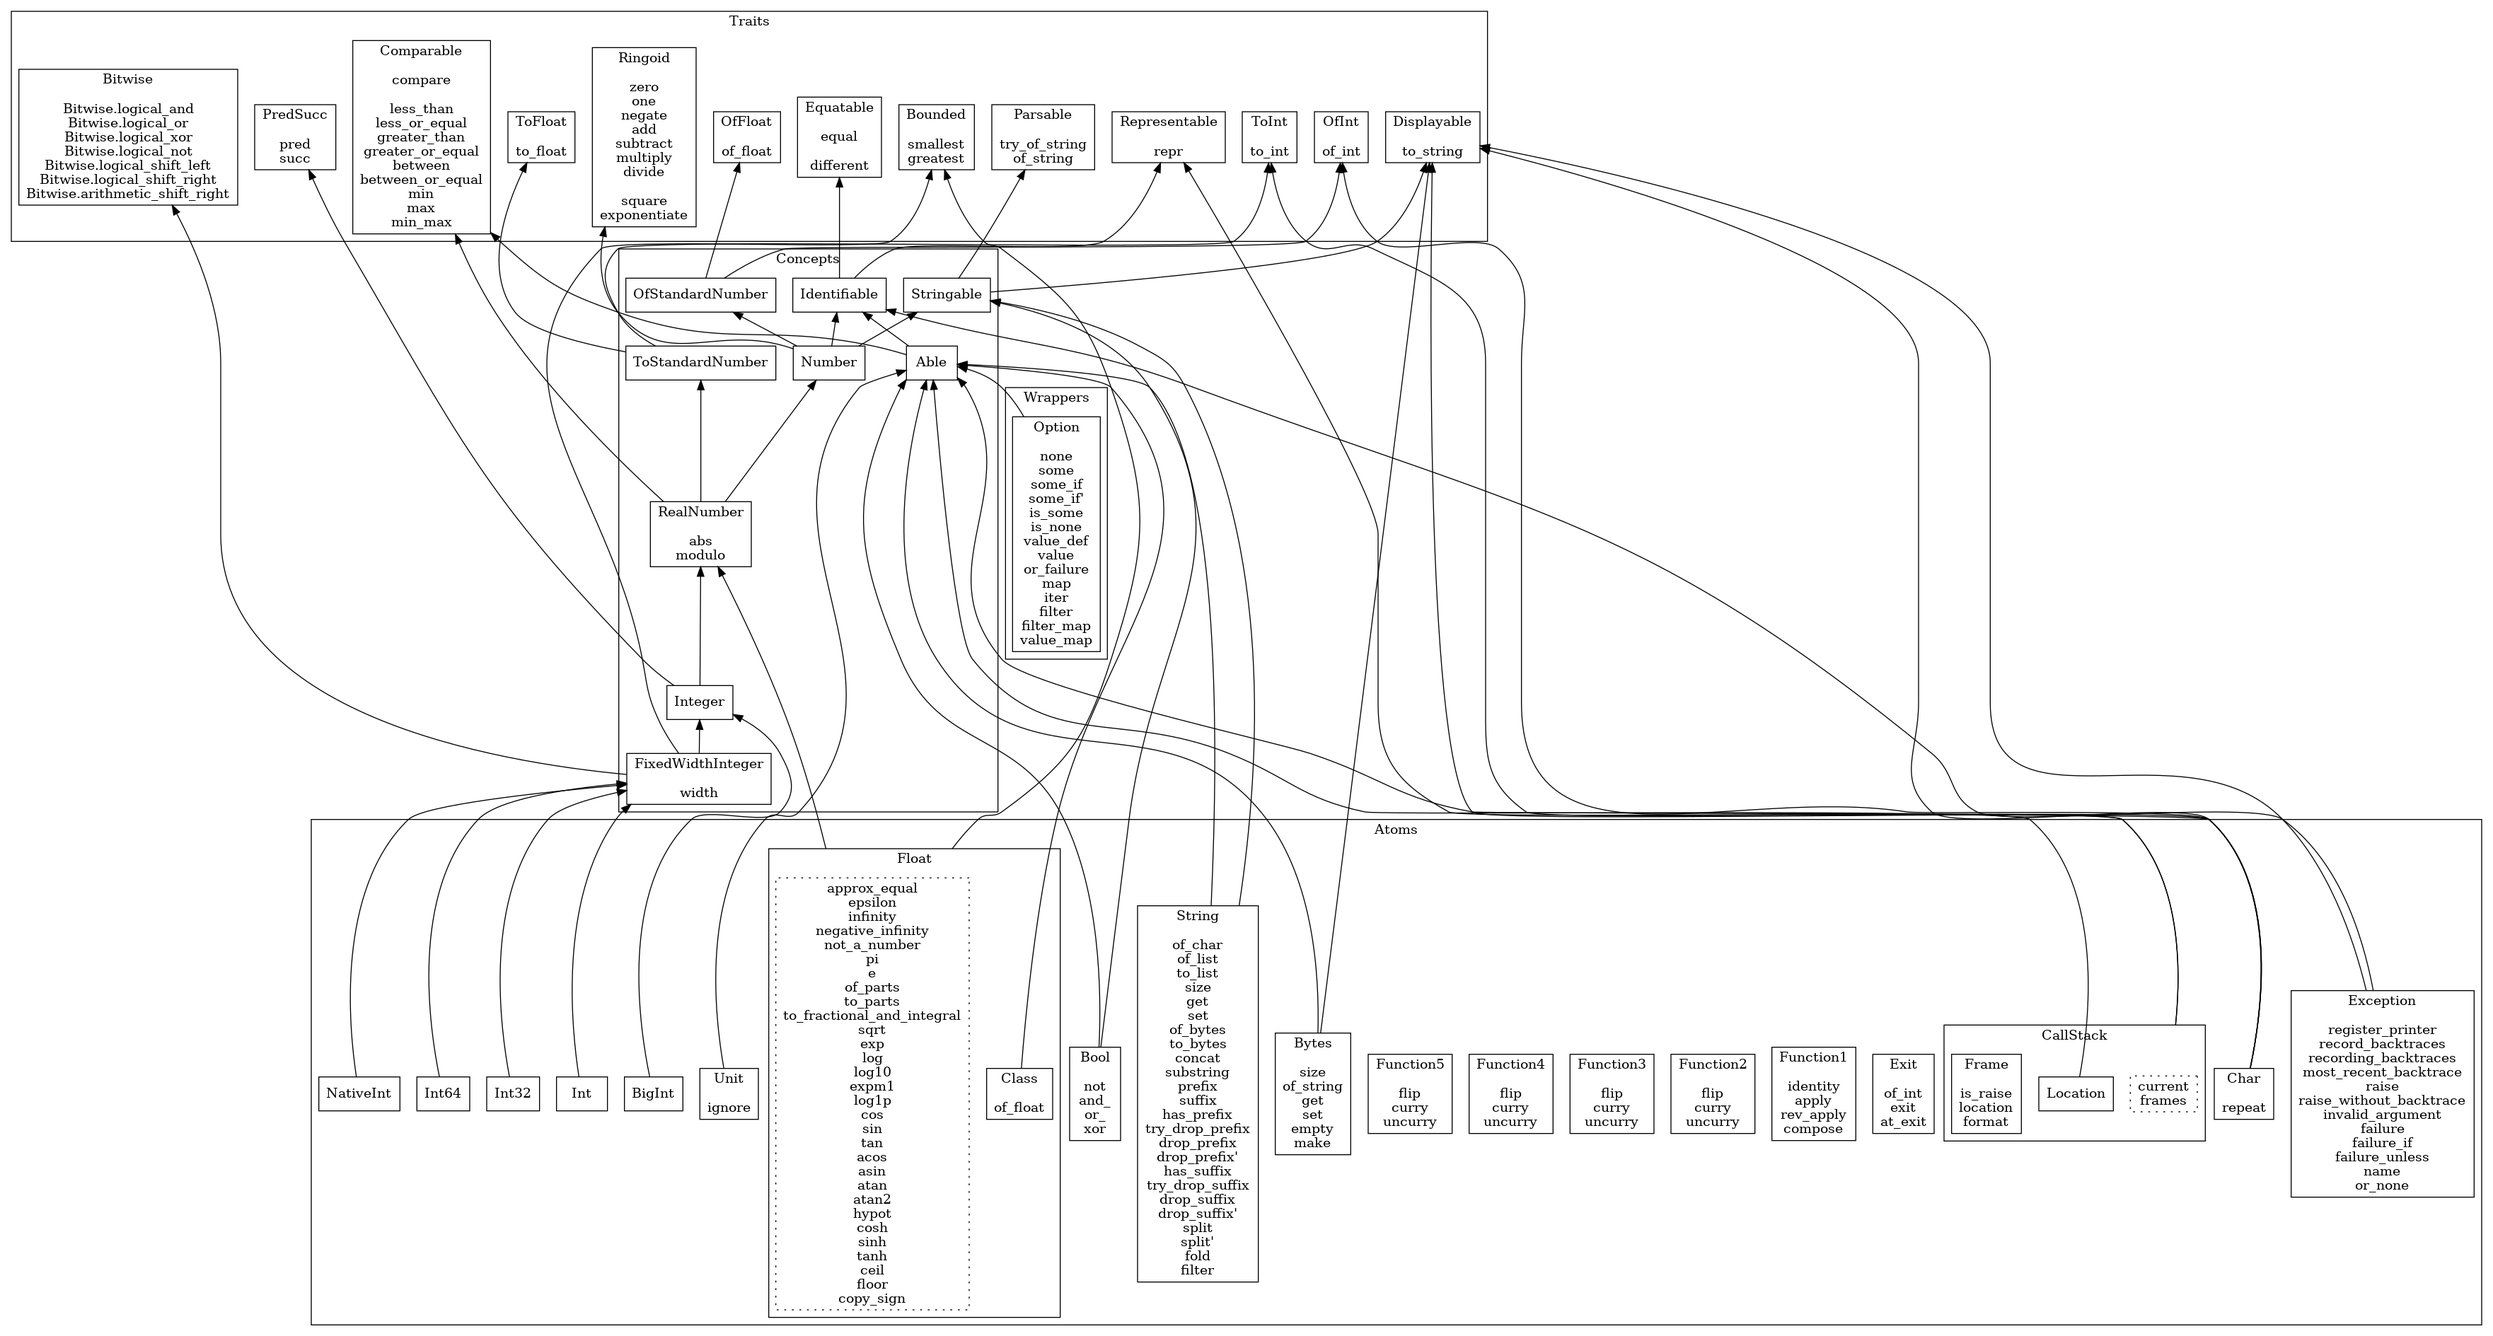
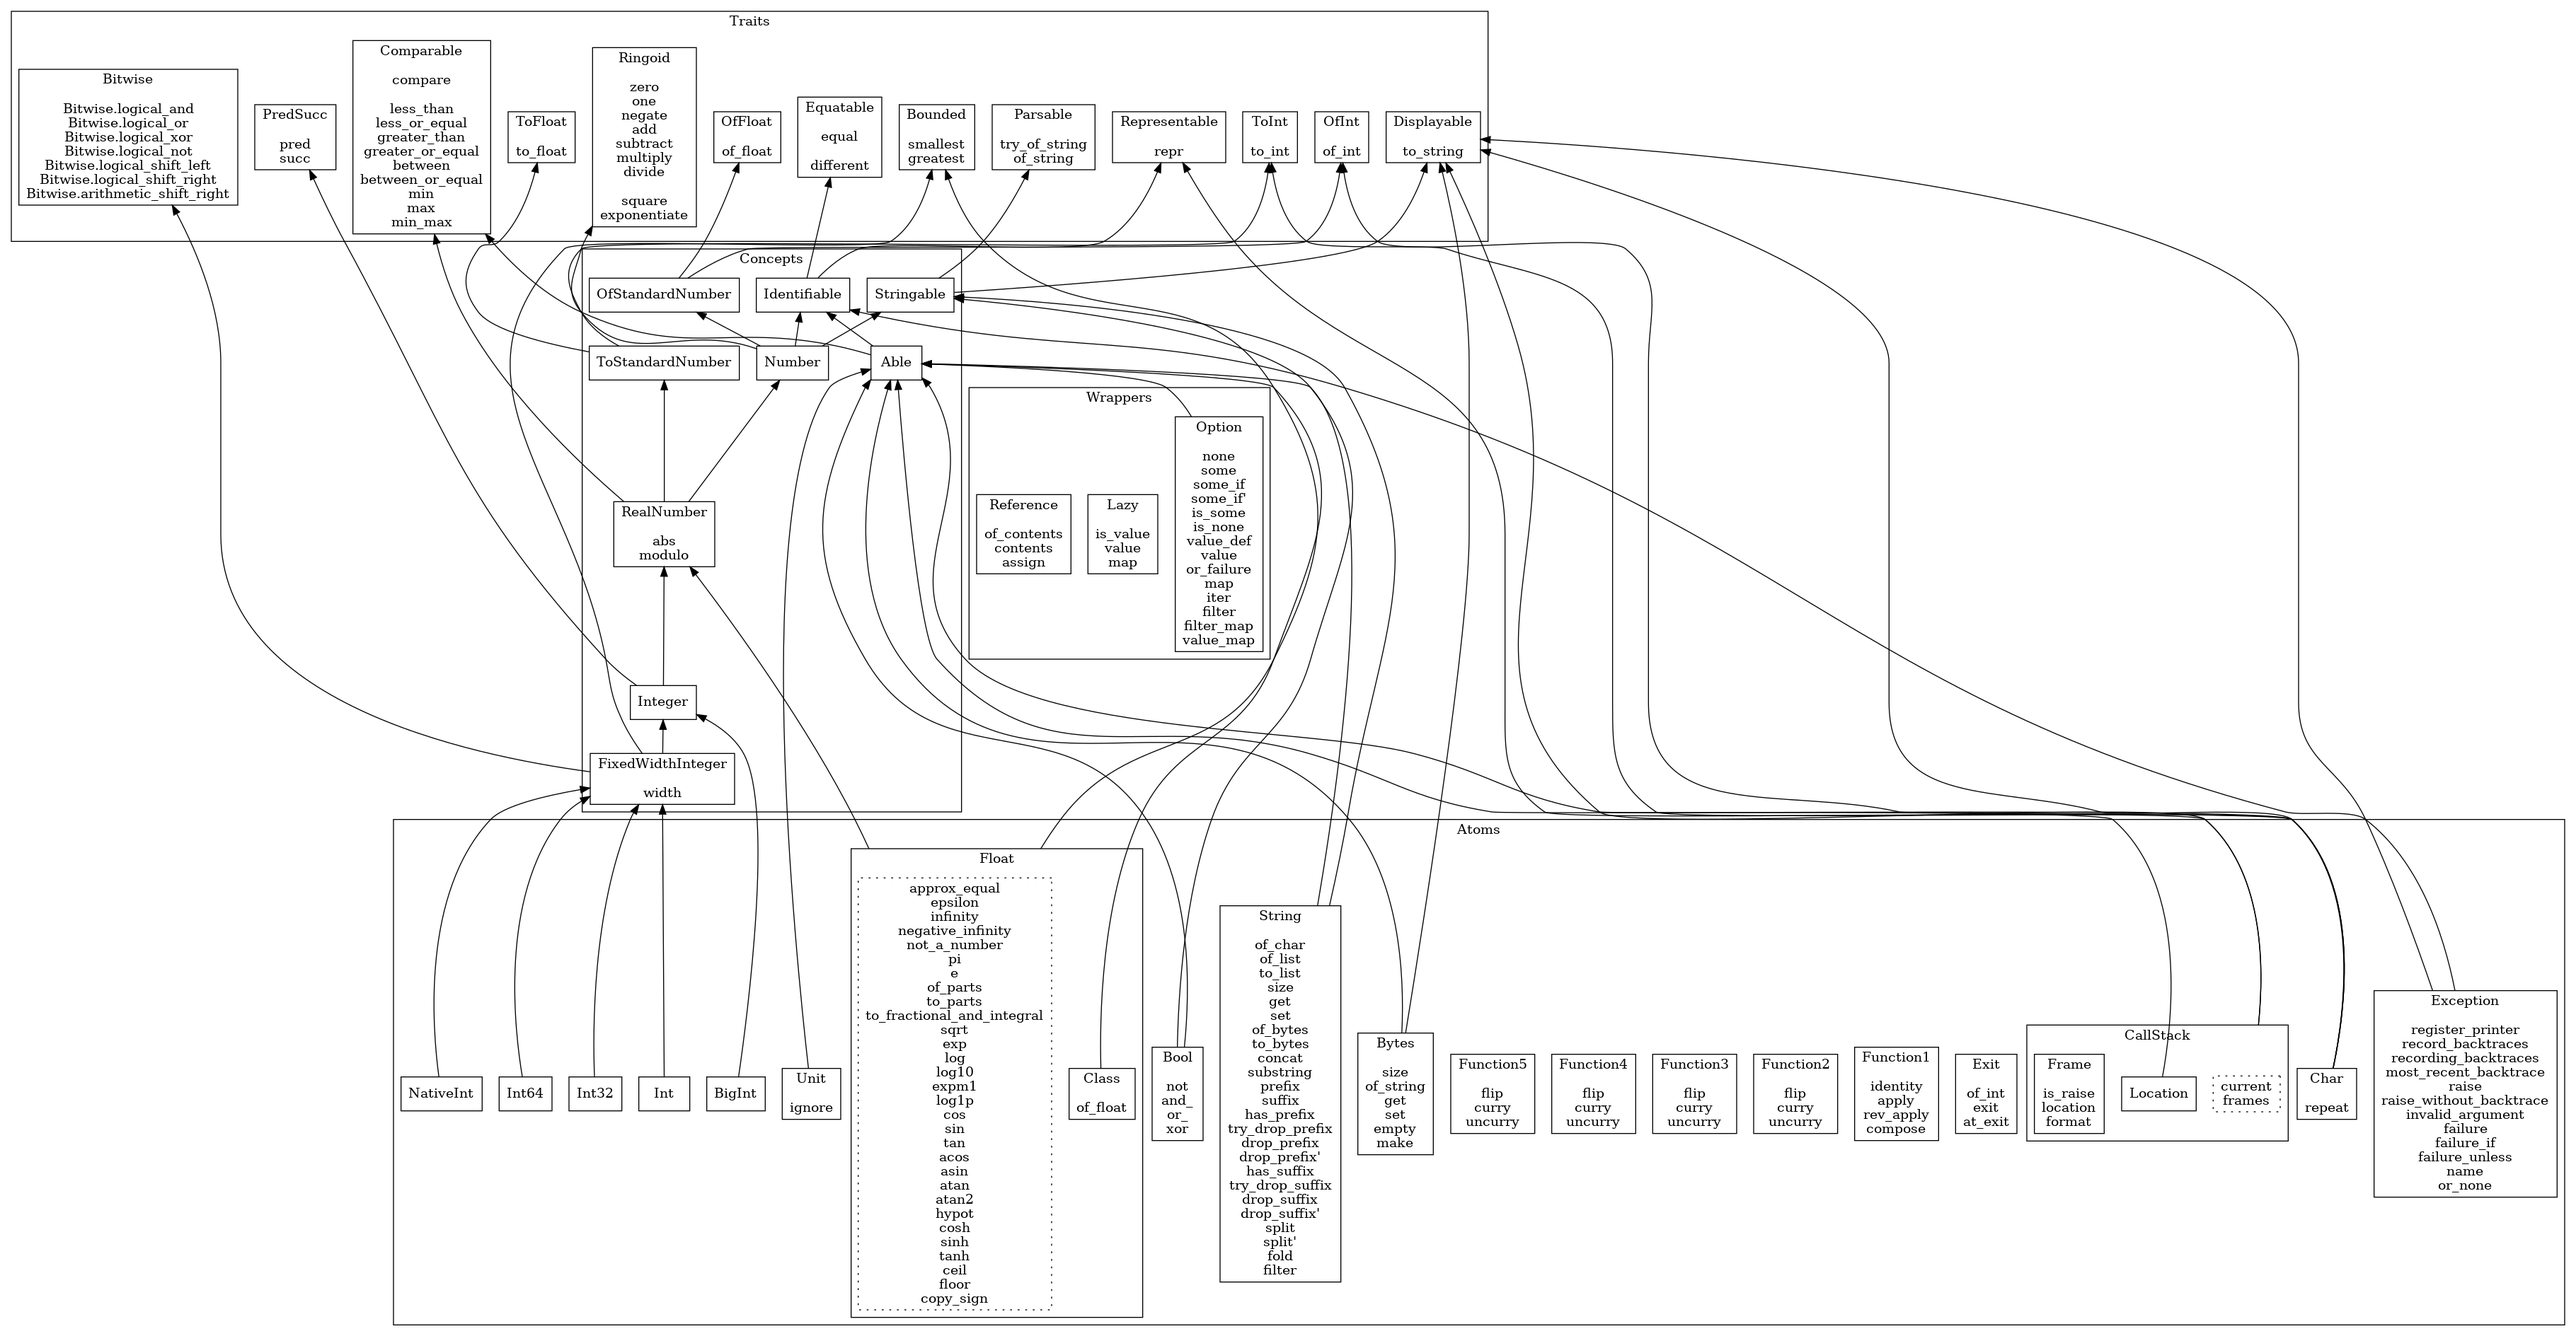
Generate specification for types 'a ref and 'a lazy_t

diff --git a/src/geni.py b/src/geni.py
@@ -878,6 +878,7 @@ def wrapper(
     type_params,
     type,
     bases,
+    operators=[],
     values,
     specializers=[],
 ):
@@ -888,7 +889,7 @@ def wrapper(
         type=type,
         arity=1,
         bases=bases,
-        operators=[],
+        operators=operators,
         values=values,
         types=[],
         exceptions=[],
@@ -1538,6 +1539,82 @@ option = wrapper(
             end
         """).splitlines(),
     ]
+)
+
+lazy = wrapper(
+    "Lazy",
+    type_params="'a",
+    type="'a lazy_t",
+    bases=[],
+    values=[
+        val("is_value", "'a t", "bool"),
+        val("value", "'a t", "'a"),
+        val("map", "'a t", {"f": "'a -> 'b"}, "'b t"),
+    ],
+)
+
+reference = wrapper(
+    "Reference",
+    type_params="'a",
+    type="'a Pervasives.OCamlStandard.Pervasives.ref = {mutable contents: 'a}",
+    bases=[
+        # @feature able
+    ],
+    values=[
+        val("of_contents", "'a", "'a t"),
+        val("contents", "'a t", "'a"),
+        val("assign", "'a t", "'a", "unit"),
+    ],
+    operators=[
+        val("ref", "'a", "'a t"),
+        val("(!)", "'a t", "'a"),
+        val("(:=)", "'a t", "'a", "unit"),
+    ],
+    specializers=[
+        textwrap.dedent("""\
+            module SpecializeOperators(A: sig type t end): sig
+              type nonrec t = A.t t
+              val ref: A.t -> t
+              val (!): t -> A.t
+              val (:=): t -> A.t -> unit
+            end
+        """).splitlines(),
+        textwrap.dedent("""\
+            module Specialize(A: sig type t end): sig
+              type nonrec t = A.t t
+              val of_contents: A.t -> t
+              val contents: t -> A.t
+              val assign: t -> A.t -> unit
+              module O: module type of SpecializeOperators(A) with type t := t
+            end
+        """).splitlines(),
+        # @feature SpecializeComparable
+        # @feature SpecializeEquatable
+        # @feature SpecializeRepresentable
+        # @feature SpecializeAble (merge of three previous)
+        textwrap.dedent("""\
+            module SpecializePredSucc(A: Traits.PredSucc.S0): sig
+              type nonrec t = A.t t
+              val increment: t -> unit
+              val decrement: t -> unit
+            end
+        """).splitlines(),
+        textwrap.dedent("""\
+            module SpecializeRingoidOperators(A: Traits.Ringoid.Basic.S0): sig
+              type nonrec t = A.t t
+              val (=+): t -> A.t -> unit
+              val (=-): t -> A.t -> unit
+              val (=*): t -> A.t -> unit
+              val (=/): t -> A.t -> unit
+            end
+        """).splitlines(),
+        textwrap.dedent("""\
+            module SpecializeRingoid(A: Traits.Ringoid.Basic.S0): sig
+              type nonrec t = A.t t
+              module O: module type of SpecializeRingoidOperators(A) with type t := t
+            end
+        """).splitlines(),
+    ],
 )
 
 if __name__ == "__main__":
